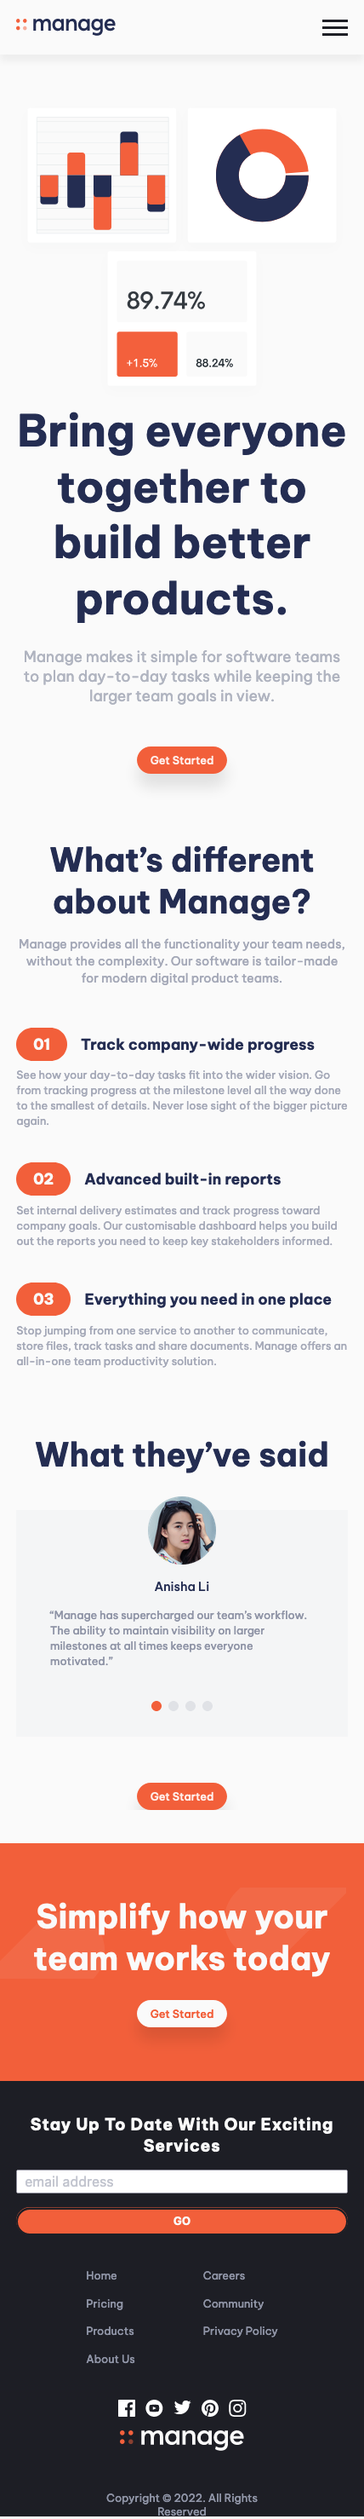
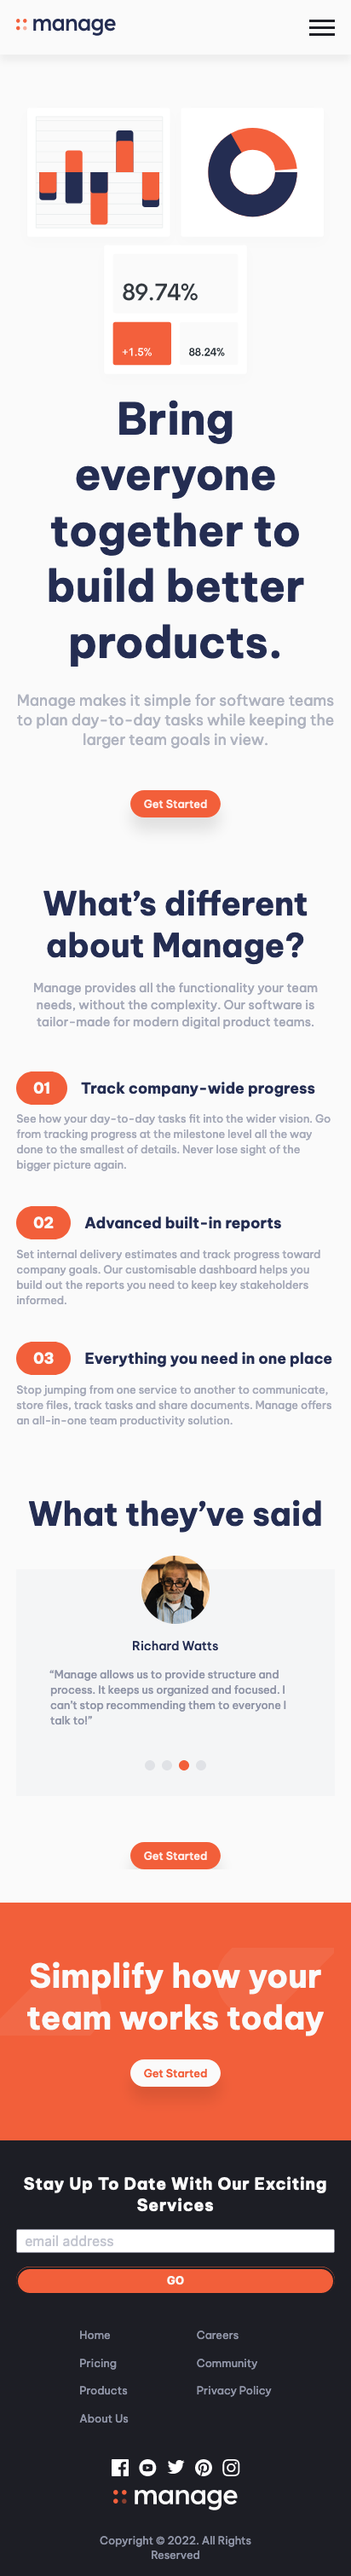
modified footer copyright position

diff --git a/assets/css/style.prefix.css b/assets/css/style.prefix.css
@@ -586,7 +586,7 @@ main section {
       color: #9095a7;
       text-transform: capitalize;
       position: absolute;
-      bottom: -20%;
+      bottom: -15%;
       left: 50%;
       transform: translateX(-50%);
       text-align: center; }
@@ -595,4 +595,4 @@ main section {
           position: relative;
           text-align: left; } }
 
[2 lines of base64/hex data omitted]

diff --git a/assets/css/style.css b/assets/css/style.css
@@ -1,1 +1,1 @@
-*,*::before,*::after{padding:0;margin:0;box-sizing:border-box}html{font-size:50%;scroll-behavior:smooth}@media only screen and (min-width: 48em){html{font-size:62.5%}}body{font-size:1.6rem;font-family:'Be Vietnam Pro', sans-serif;font-weight:400;background-color:#fafafa;overflow-x:hidden}img{display:block;max-width:100%;height:auto}.btn{display:inline-block;text-decoration:none;text-transform:capitalize}.btn-cta:link,.btn-cta:visited{color:#ffefeb;background-color:#f25f3a;padding:1rem 2rem;border-radius:100px;font-weight:500;transition:all 0.4s;box-shadow:0 2rem 2rem rgba(0,0,0,0.1)}.btn-cta:hover{box-shadow:0 3rem 3rem rgba(0,0,0,0.2);transform:translateY(-1rem)}.btn-cta:active{box-shadow:0 2rem 2rem rgba(0,0,0,0.15);transform:translateY(-0.5rem)}.btn-submit{background-color:#f25f3a;color:#fafafa;border:none;padding:1rem 3rem;border-radius:100px;font-weight:700;transition:all 0.4s;box-shadow:inset 0 0 0 0.3rem #1d1e25;text-transform:uppercase;cursor:pointer}.btn-submit:hover{transform:translateY(-1rem)}.btn-submit:active{transform:translateY(-0.5rem)}.container{max-width:100%;margin:0 auto}@media only screen and (max-width: 36em){.container{padding-left:2.4rem;padding-right:2.4rem}}@media only screen and (min-width: 36em){.container{max-width:540px}}@media only screen and (min-width: 48em){.container{max-width:720px}}@media only screen and (min-width: 62em){.container{max-width:960px}}@media only screen and (min-width: 75em){.container{max-width:1140px}}@media only screen and (min-width: 87.5em){.container{max-width:1320px}}.overlay::after{content:"";position:fixed;top:0;left:0;width:100%;height:100vh;background-color:rgba(0,0,0,0.9);z-index:-1}.mainNav{position:fixed;width:100%;box-shadow:0 1rem 1rem rgba(0,0,0,0.05);max-height:100vh;background-color:#fafafa;padding-top:2.8rem;padding-bottom:2.8rem;z-index:999}@media only screen and (min-width: 62em){.mainNav{height:9.6rem}}.mainNav__container{display:flex;justify-content:space-between;align-items:center;flex-wrap:wrap;background-color:#fafafa}.mainNav__brand{position:relative;z-index:9999}.mainNav__img{width:14.6rem;height:2.4rem}.mainNav__list{position:relative;display:flex;list-style:none;z-index:9999;flex:1 0 100%;flex-direction:column;text-align:center;row-gap:5rem;height:0;overflow:hidden;transition:all 0.4s}@media only screen and (min-width: 62em){.mainNav__list{height:auto;flex:0 1 auto;flex-direction:row;justify-content:center;align-items:center;-moz-column-gap:4rem;column-gap:4rem;overflow:visible}}.mainNav__item{color:#1d1e25}.mainNav__link{text-decoration:none;text-transform:capitalize;color:inherit;position:relative}@media only screen and (min-width: 62em){.mainNav__link::after{content:"";width:0;height:5px;background-color:#f25f3a;position:absolute;bottom:-0.5rem;left:0;z-index:-1;transition:all 0.4s}.mainNav__link:hover::after{width:100%}}.mainNav__menuBtn{display:block;cursor:pointer}@media only screen and (min-width: 62em){.mainNav__menuBtn{display:none}}.mainNav__menuBtn-icon{width:30px;height:3px;background-color:#1d1e25;position:relative;transition:all 0.4s ease-in-out}.mainNav__menuBtn-icon::before,.mainNav__menuBtn-icon::after{position:absolute;content:"";background-color:#1d1e25;transition:all 0.4s ease-out;width:100%;height:100%}.mainNav__menuBtn-icon::before{transform:translateY(-8px)}.mainNav__menuBtn-icon::after{transform:translateY(8px)}.mainNav__btn-cta:link,.mainNav__btn-cta:visited{display:none}@media only screen and (min-width: 62em){.mainNav__btn-cta:link,.mainNav__btn-cta:visited{display:block}}.mainNav__menuBtn.active>.mainNav__menuBtn-icon{background-color:transparent}.mainNav__menuBtn.active>.mainNav__menuBtn-icon::before{transform:rotate(135deg)}.mainNav__menuBtn.active>.mainNav__menuBtn-icon::after{transform:rotate(-135deg)}.mainNav__menuBtn.active ~ .mainNav__list{padding:8rem 0;font-size:2.8rem;height:100vh;overflow-y:auto}.mainNav__menuBtn.active ~ .mainNav__list .mainNav__item{padding-bottom:1rem;border-bottom:3px solid rgba(144,149,167,0.3)}main section:first-child{padding-top:9.6rem}main section{padding:4.8rem 0;opacity:0;transform:translateY(10rem);transition:all .4s}.hero{padding-top:15rem;width:100%}.hero__container{display:grid;grid-template-columns:1fr;align-items:center}@media only screen and (min-width: 75em){.hero__container{grid-template-columns:repeat(2, 1fr)}}.hero__img{width:auto;max-height:60rem;margin:0 auto}@media only screen and (min-width: 75em){.hero__img{width:100%;height:auto}}.hero__textContent{display:flex;flex-direction:column;row-gap:3rem;align-items:center;text-align:center}@media only screen and (min-width: 75em){.hero__textContent{order:-1;text-align:start;align-items:flex-start}}.hero__heading{font-size:6.4rem;font-weight:700;color:#242d52}.hero__text{font-size:2.2rem;color:rgba(144,149,167,0.7)}.hero__btn{margin-top:3rem}.features__container{display:grid;grid-template-columns:1fr;row-gap:6rem}@media only screen and (min-width: 75em){.features__container{grid-template-columns:repeat(2, 1fr);-moz-column-gap:6rem;column-gap:6rem}}.features__header{display:flex;flex-direction:column;align-items:center;row-gap:1.8rem;text-align:center}@media only screen and (min-width: 75em){.features__header{align-items:flex-start;text-align:start}}.features__heading{font-size:4.8rem;color:#242d52;font-weight:700}.features__text{color:rgba(144,149,167,0.8);font-size:1.8rem;line-height:140%}.features__body{display:flex;flex-direction:column;row-gap:5rem}.features__item{display:grid;grid-template-columns:auto 1fr;-moz-column-gap:2rem;column-gap:2rem;row-gap:1rem}@media only screen and (max-width: 36em){.features__item{align-items:center}}.features__item-number{font-weight:700;font-size:2.2rem;padding:1rem 2.5rem;border-radius:100px;background-color:#f25f3a;color:#fafafa}.features__item-heading{color:#242d52;font-size:2.2rem}.features__item-text{grid-column:1 / -1;grid-row:2 / 3;color:rgba(144,149,167,0.8);line-height:140%}@media only screen and (min-width: 36em){.features__item-text{grid-column:2 / 3}}.testimonials__container{display:flex;flex-direction:column;justify-content:center;row-gap:5rem;overflow-x:hidden}.testimonials__heading{text-align:center;font-size:4.8rem;color:#242d52;font-weight:700}.testimonials__body{position:relative;height:35rem}.testimonials__item{position:absolute;top:0;left:0;width:100%;touch-action:none;padding:10rem 5rem 10rem 5rem;display:flex;flex-direction:column;align-items:center;row-gap:2rem;background-color:rgba(144,149,167,0.05);transition:all .4s}@media only screen and (min-width: 75em){.testimonials__item{left:25%;width:50%}}.testimonials__item-img{width:10rem;margin-top:-12rem}.testimonials__item-name{color:#242d52;font-size:1.8rem;font-weight:500}.testimonials__item-text{color:#9095a7;line-height:140%}.testimonials__slider-btnController{position:absolute;top:80%;left:50%;transform:translateX(-50%);display:flex;-moz-column-gap:1rem;column-gap:1rem}@media only screen and (min-width: 36em){.testimonials__slider-btnController{top:75%}}@media only screen and (min-width: 48em){.testimonials__slider-btnController{top:70%}}.testimonials__slider-btn{margin:0;width:1.5rem;height:1.5rem;border-radius:50%;background-color:rgba(144,149,167,0.2);cursor:pointer;transition:all .4s}.testimonials__slider-btn.active{background-color:#f25f3a}.testimonials__btn-cta{margin-top:-5rem;align-self:center}@media only screen and (max-width: 36em){.testimonials__btn-cta{margin-top:0}}.cta{background-color:#f25f3a;overflow:hidden}.cta__container{padding:3rem 0;position:relative;display:grid;grid-template-columns:1fr;row-gap:3rem}@media only screen and (min-width: 48em){.cta__container{grid-template-columns:repeat(2, 1fr)}}.cta__heading{font-weight:700;color:#fafafa;font-size:4.8rem;text-align:center;z-index:2}@media only screen and (min-width: 48em){.cta__heading{text-align:left}}.cta__btn-cta:link,.cta__btn-cta:visited{z-index:2;justify-self:center;align-self:center;background-color:#fafafa;color:#f25f3a}@media only screen and (min-width: 48em){.cta__btn-cta:link,.cta__btn-cta:visited{justify-self:flex-end}}.cta__bg{position:absolute;top:20%;left:20%;transform:scale(2);z-index:1}@media only screen and (min-width: 48em){.cta__bg{top:0%;left:40%;transform:scale(2.5)}}.footer{padding:4.8rem 0 9.6rem 0;background-color:#1d1e25}.secNav{position:relative;display:grid;grid-template-columns:repeat(6, 1fr);justify-content:center;-moz-column-gap:5rem;column-gap:5rem;row-gap:5rem}@media only screen and (min-width: 75em){.secNav{grid-template-columns:25rem 40rem 1fr}}.secNav__social{display:flex;flex-direction:column;justify-content:space-between;align-items:center;order:2;row-gap:2rem;grid-column:1 / -1}@media only screen and (min-width: 75em){.secNav__social{order:-1;grid-column:auto}}.secNav__social-list{display:flex;list-style:none;-moz-column-gap:1.5rem;column-gap:1.5rem;order:-1}@media only screen and (min-width: 75em){.secNav__social-list{order:2}}.secNav__social-icon:hover{transform:translateY(-0.5rem);transition:all 0.4s}.secNav__links-list{list-style:none;display:grid;grid-template-columns:repeat(2, auto);justify-content:center;-moz-column-gap:10rem;column-gap:10rem;row-gap:2rem;grid-column:1 / -1}@media only screen and (min-width: 75em){.secNav__links-list{grid-column:auto}}.secNav__links-link:link,.secNav__links-link:visited{text-decoration:none;color:#9095a7;text-transform:capitalize;transition:all .4s;position:relative}.secNav__links-link:link::after,.secNav__links-link:visited::after{content:"";position:absolute;bottom:0;left:0;width:0;height:5px;background-color:#f25f3a;transform:translateY(1rem);transition:all .4s}.secNav__links-link:hover::after{width:100%}.secNav__newsletter{display:flex;flex-direction:column;order:-1;grid-column:1 / -1;justify-content:space-between;row-gap:2rem}@media only screen and (min-width: 48em){.secNav__newsletter{grid-column:2 / 6}}@media only screen and (min-width: 75em){.secNav__newsletter{order:2;grid-column:auto}}.secNav__newsletter-heading{color:#fafafa;text-transform:capitalize;letter-spacing:0.1rem;font-size:2.4rem;text-align:center}@media only screen and (min-width: 75em){.secNav__newsletter-heading{text-align:left;font-size:1.8rem}}.secNav__newsletter-form{display:grid;grid-template-columns:1fr;-moz-column-gap:1rem;column-gap:1rem;row-gap:2rem;font-family:"Be Vietnam Pro", sans-serif;align-items:flex-start}@media only screen and (min-width: 48em){.secNav__newsletter-form{grid-template-columns:1fr 15rem}}.secNav__newsletter-inputGroup{display:flex;flex-direction:column;row-gap:0.5rem;flex-grow:1}.secNav__newsletter-email{padding:0.5rem 1rem}.secNav__newsletter-email::-moz-placeholder{font-size:1.2em;color:#9095a7}.secNav__newsletter-email:-ms-input-placeholder{font-size:1.2em;color:#9095a7}.secNav__newsletter-email::placeholder{font-size:1.2em;color:#9095a7}.secNav__newsletter-email:focus{outline:2px solid #f25f3a}.secNav__newsletter-inputFeedback-invalid{display:none;color:#f25f3a;font-size:1.4rem}.secNav__newsletter-inputFeedback-valid{display:none;color:green;font-size:1.4rem}.secNav__newsletter-formFeedback-success{display:none;color:yellow;font-size:1.4rem}.secNav__newsletter-formFeedback-unsuccess{display:none;color:#f25f3a;font-size:1.4rem}.invalid .secNav__newsletter-inputFeedback-invalid{display:block}.valid .secNav__newsletter-inputFeedback-valid{display:block}.was-validated-success .secNav__newsletter-formFeedback-success{display:block}.was-validated-unsuccess .secNav__newsletter-formFeedback-unsuccess{display:block}.secNav__newsletter-copyright{color:#9095a7;text-transform:capitalize;position:absolute;bottom:-20%;left:50%;transform:translateX(-50%);text-align:center}@media only screen and (min-width: 75em){.secNav__newsletter-copyright{position:relative;text-align:left}}
+*,*::before,*::after{padding:0;margin:0;box-sizing:border-box}html{font-size:50%;scroll-behavior:smooth}@media only screen and (min-width: 48em){html{font-size:62.5%}}body{font-size:1.6rem;font-family:'Be Vietnam Pro', sans-serif;font-weight:400;background-color:#fafafa;overflow-x:hidden}img{display:block;max-width:100%;height:auto}.btn{display:inline-block;text-decoration:none;text-transform:capitalize}.btn-cta:link,.btn-cta:visited{color:#ffefeb;background-color:#f25f3a;padding:1rem 2rem;border-radius:100px;font-weight:500;transition:all 0.4s;box-shadow:0 2rem 2rem rgba(0,0,0,0.1)}.btn-cta:hover{box-shadow:0 3rem 3rem rgba(0,0,0,0.2);transform:translateY(-1rem)}.btn-cta:active{box-shadow:0 2rem 2rem rgba(0,0,0,0.15);transform:translateY(-0.5rem)}.btn-submit{background-color:#f25f3a;color:#fafafa;border:none;padding:1rem 3rem;border-radius:100px;font-weight:700;transition:all 0.4s;box-shadow:inset 0 0 0 0.3rem #1d1e25;text-transform:uppercase;cursor:pointer}.btn-submit:hover{transform:translateY(-1rem)}.btn-submit:active{transform:translateY(-0.5rem)}.container{max-width:100%;margin:0 auto}@media only screen and (max-width: 36em){.container{padding-left:2.4rem;padding-right:2.4rem}}@media only screen and (min-width: 36em){.container{max-width:540px}}@media only screen and (min-width: 48em){.container{max-width:720px}}@media only screen and (min-width: 62em){.container{max-width:960px}}@media only screen and (min-width: 75em){.container{max-width:1140px}}@media only screen and (min-width: 87.5em){.container{max-width:1320px}}.overlay::after{content:"";position:fixed;top:0;left:0;width:100%;height:100vh;background-color:rgba(0,0,0,0.9);z-index:-1}.mainNav{position:fixed;width:100%;box-shadow:0 1rem 1rem rgba(0,0,0,0.05);max-height:100vh;background-color:#fafafa;padding-top:2.8rem;padding-bottom:2.8rem;z-index:999}@media only screen and (min-width: 62em){.mainNav{height:9.6rem}}.mainNav__container{display:flex;justify-content:space-between;align-items:center;flex-wrap:wrap;background-color:#fafafa}.mainNav__brand{position:relative;z-index:9999}.mainNav__img{width:14.6rem;height:2.4rem}.mainNav__list{position:relative;display:flex;list-style:none;z-index:9999;flex:1 0 100%;flex-direction:column;text-align:center;row-gap:5rem;height:0;overflow:hidden;transition:all 0.4s}@media only screen and (min-width: 62em){.mainNav__list{height:auto;flex:0 1 auto;flex-direction:row;justify-content:center;align-items:center;-moz-column-gap:4rem;column-gap:4rem;overflow:visible}}.mainNav__item{color:#1d1e25}.mainNav__link{text-decoration:none;text-transform:capitalize;color:inherit;position:relative}@media only screen and (min-width: 62em){.mainNav__link::after{content:"";width:0;height:5px;background-color:#f25f3a;position:absolute;bottom:-0.5rem;left:0;z-index:-1;transition:all 0.4s}.mainNav__link:hover::after{width:100%}}.mainNav__menuBtn{display:block;cursor:pointer}@media only screen and (min-width: 62em){.mainNav__menuBtn{display:none}}.mainNav__menuBtn-icon{width:30px;height:3px;background-color:#1d1e25;position:relative;transition:all 0.4s ease-in-out}.mainNav__menuBtn-icon::before,.mainNav__menuBtn-icon::after{position:absolute;content:"";background-color:#1d1e25;transition:all 0.4s ease-out;width:100%;height:100%}.mainNav__menuBtn-icon::before{transform:translateY(-8px)}.mainNav__menuBtn-icon::after{transform:translateY(8px)}.mainNav__btn-cta:link,.mainNav__btn-cta:visited{display:none}@media only screen and (min-width: 62em){.mainNav__btn-cta:link,.mainNav__btn-cta:visited{display:block}}.mainNav__menuBtn.active>.mainNav__menuBtn-icon{background-color:transparent}.mainNav__menuBtn.active>.mainNav__menuBtn-icon::before{transform:rotate(135deg)}.mainNav__menuBtn.active>.mainNav__menuBtn-icon::after{transform:rotate(-135deg)}.mainNav__menuBtn.active ~ .mainNav__list{padding:8rem 0;font-size:2.8rem;height:100vh;overflow-y:auto}.mainNav__menuBtn.active ~ .mainNav__list .mainNav__item{padding-bottom:1rem;border-bottom:3px solid rgba(144,149,167,0.3)}main section:first-child{padding-top:9.6rem}main section{padding:4.8rem 0;opacity:0;transform:translateY(10rem);transition:all .4s}.hero{padding-top:15rem;width:100%}.hero__container{display:grid;grid-template-columns:1fr;align-items:center}@media only screen and (min-width: 75em){.hero__container{grid-template-columns:repeat(2, 1fr)}}.hero__img{width:auto;max-height:60rem;margin:0 auto}@media only screen and (min-width: 75em){.hero__img{width:100%;height:auto}}.hero__textContent{display:flex;flex-direction:column;row-gap:3rem;align-items:center;text-align:center}@media only screen and (min-width: 75em){.hero__textContent{order:-1;text-align:start;align-items:flex-start}}.hero__heading{font-size:6.4rem;font-weight:700;color:#242d52}.hero__text{font-size:2.2rem;color:rgba(144,149,167,0.7)}.hero__btn{margin-top:3rem}.features__container{display:grid;grid-template-columns:1fr;row-gap:6rem}@media only screen and (min-width: 75em){.features__container{grid-template-columns:repeat(2, 1fr);-moz-column-gap:6rem;column-gap:6rem}}.features__header{display:flex;flex-direction:column;align-items:center;row-gap:1.8rem;text-align:center}@media only screen and (min-width: 75em){.features__header{align-items:flex-start;text-align:start}}.features__heading{font-size:4.8rem;color:#242d52;font-weight:700}.features__text{color:rgba(144,149,167,0.8);font-size:1.8rem;line-height:140%}.features__body{display:flex;flex-direction:column;row-gap:5rem}.features__item{display:grid;grid-template-columns:auto 1fr;-moz-column-gap:2rem;column-gap:2rem;row-gap:1rem}@media only screen and (max-width: 36em){.features__item{align-items:center}}.features__item-number{font-weight:700;font-size:2.2rem;padding:1rem 2.5rem;border-radius:100px;background-color:#f25f3a;color:#fafafa}.features__item-heading{color:#242d52;font-size:2.2rem}.features__item-text{grid-column:1 / -1;grid-row:2 / 3;color:rgba(144,149,167,0.8);line-height:140%}@media only screen and (min-width: 36em){.features__item-text{grid-column:2 / 3}}.testimonials__container{display:flex;flex-direction:column;justify-content:center;row-gap:5rem;overflow-x:hidden}.testimonials__heading{text-align:center;font-size:4.8rem;color:#242d52;font-weight:700}.testimonials__body{position:relative;height:35rem}.testimonials__item{position:absolute;top:0;left:0;width:100%;touch-action:none;padding:10rem 5rem 10rem 5rem;display:flex;flex-direction:column;align-items:center;row-gap:2rem;background-color:rgba(144,149,167,0.05);transition:all .4s}@media only screen and (min-width: 75em){.testimonials__item{left:25%;width:50%}}.testimonials__item-img{width:10rem;margin-top:-12rem}.testimonials__item-name{color:#242d52;font-size:1.8rem;font-weight:500}.testimonials__item-text{color:#9095a7;line-height:140%}.testimonials__slider-btnController{position:absolute;top:80%;left:50%;transform:translateX(-50%);display:flex;-moz-column-gap:1rem;column-gap:1rem}@media only screen and (min-width: 36em){.testimonials__slider-btnController{top:75%}}@media only screen and (min-width: 48em){.testimonials__slider-btnController{top:70%}}.testimonials__slider-btn{margin:0;width:1.5rem;height:1.5rem;border-radius:50%;background-color:rgba(144,149,167,0.2);cursor:pointer;transition:all .4s}.testimonials__slider-btn.active{background-color:#f25f3a}.testimonials__btn-cta{margin-top:-5rem;align-self:center}@media only screen and (max-width: 36em){.testimonials__btn-cta{margin-top:0}}.cta{background-color:#f25f3a;overflow:hidden}.cta__container{padding:3rem 0;position:relative;display:grid;grid-template-columns:1fr;row-gap:3rem}@media only screen and (min-width: 48em){.cta__container{grid-template-columns:repeat(2, 1fr)}}.cta__heading{font-weight:700;color:#fafafa;font-size:4.8rem;text-align:center;z-index:2}@media only screen and (min-width: 48em){.cta__heading{text-align:left}}.cta__btn-cta:link,.cta__btn-cta:visited{z-index:2;justify-self:center;align-self:center;background-color:#fafafa;color:#f25f3a}@media only screen and (min-width: 48em){.cta__btn-cta:link,.cta__btn-cta:visited{justify-self:flex-end}}.cta__bg{position:absolute;top:20%;left:20%;transform:scale(2);z-index:1}@media only screen and (min-width: 48em){.cta__bg{top:0%;left:40%;transform:scale(2.5)}}.footer{padding:4.8rem 0 9.6rem 0;background-color:#1d1e25}.secNav{position:relative;display:grid;grid-template-columns:repeat(6, 1fr);justify-content:center;-moz-column-gap:5rem;column-gap:5rem;row-gap:5rem}@media only screen and (min-width: 75em){.secNav{grid-template-columns:25rem 40rem 1fr}}.secNav__social{display:flex;flex-direction:column;justify-content:space-between;align-items:center;order:2;row-gap:2rem;grid-column:1 / -1}@media only screen and (min-width: 75em){.secNav__social{order:-1;grid-column:auto}}.secNav__social-list{display:flex;list-style:none;-moz-column-gap:1.5rem;column-gap:1.5rem;order:-1}@media only screen and (min-width: 75em){.secNav__social-list{order:2}}.secNav__social-icon:hover{transform:translateY(-0.5rem);transition:all 0.4s}.secNav__links-list{list-style:none;display:grid;grid-template-columns:repeat(2, auto);justify-content:center;-moz-column-gap:10rem;column-gap:10rem;row-gap:2rem;grid-column:1 / -1}@media only screen and (min-width: 75em){.secNav__links-list{grid-column:auto}}.secNav__links-link:link,.secNav__links-link:visited{text-decoration:none;color:#9095a7;text-transform:capitalize;transition:all .4s;position:relative}.secNav__links-link:link::after,.secNav__links-link:visited::after{content:"";position:absolute;bottom:0;left:0;width:0;height:5px;background-color:#f25f3a;transform:translateY(1rem);transition:all .4s}.secNav__links-link:hover::after{width:100%}.secNav__newsletter{display:flex;flex-direction:column;order:-1;grid-column:1 / -1;justify-content:space-between;row-gap:2rem}@media only screen and (min-width: 48em){.secNav__newsletter{grid-column:2 / 6}}@media only screen and (min-width: 75em){.secNav__newsletter{order:2;grid-column:auto}}.secNav__newsletter-heading{color:#fafafa;text-transform:capitalize;letter-spacing:0.1rem;font-size:2.4rem;text-align:center}@media only screen and (min-width: 75em){.secNav__newsletter-heading{text-align:left;font-size:1.8rem}}.secNav__newsletter-form{display:grid;grid-template-columns:1fr;-moz-column-gap:1rem;column-gap:1rem;row-gap:2rem;font-family:"Be Vietnam Pro", sans-serif;align-items:flex-start}@media only screen and (min-width: 48em){.secNav__newsletter-form{grid-template-columns:1fr 15rem}}.secNav__newsletter-inputGroup{display:flex;flex-direction:column;row-gap:0.5rem;flex-grow:1}.secNav__newsletter-email{padding:0.5rem 1rem}.secNav__newsletter-email::-moz-placeholder{font-size:1.2em;color:#9095a7}.secNav__newsletter-email:-ms-input-placeholder{font-size:1.2em;color:#9095a7}.secNav__newsletter-email::placeholder{font-size:1.2em;color:#9095a7}.secNav__newsletter-email:focus{outline:2px solid #f25f3a}.secNav__newsletter-inputFeedback-invalid{display:none;color:#f25f3a;font-size:1.4rem}.secNav__newsletter-inputFeedback-valid{display:none;color:green;font-size:1.4rem}.secNav__newsletter-formFeedback-success{display:none;color:yellow;font-size:1.4rem}.secNav__newsletter-formFeedback-unsuccess{display:none;color:#f25f3a;font-size:1.4rem}.invalid .secNav__newsletter-inputFeedback-invalid{display:block}.valid .secNav__newsletter-inputFeedback-valid{display:block}.was-validated-success .secNav__newsletter-formFeedback-success{display:block}.was-validated-unsuccess .secNav__newsletter-formFeedback-unsuccess{display:block}.secNav__newsletter-copyright{color:#9095a7;text-transform:capitalize;position:absolute;bottom:-15%;left:50%;transform:translateX(-50%);text-align:center}@media only screen and (min-width: 75em){.secNav__newsletter-copyright{position:relative;text-align:left}}

diff --git a/assets/css/style.comp.css b/assets/css/style.comp.css
@@ -572,7 +572,7 @@ main section {
       color: #9095a7;
       text-transform: capitalize;
       position: absolute;
-      bottom: -20%;
+      bottom: -15%;
       left: 50%;
       transform: translateX(-50%);
       text-align: center; }

diff --git a/assets/sass/pages/_footer.scss b/assets/sass/pages/_footer.scss
@@ -203,7 +203,7 @@
       color: $color-neutral-grey-blue;
       text-transform: capitalize;
       position: absolute;
-      bottom: -20%;
+      bottom: -15%;
       left: 50%;
       transform: translateX(-50%);
       text-align: center;
